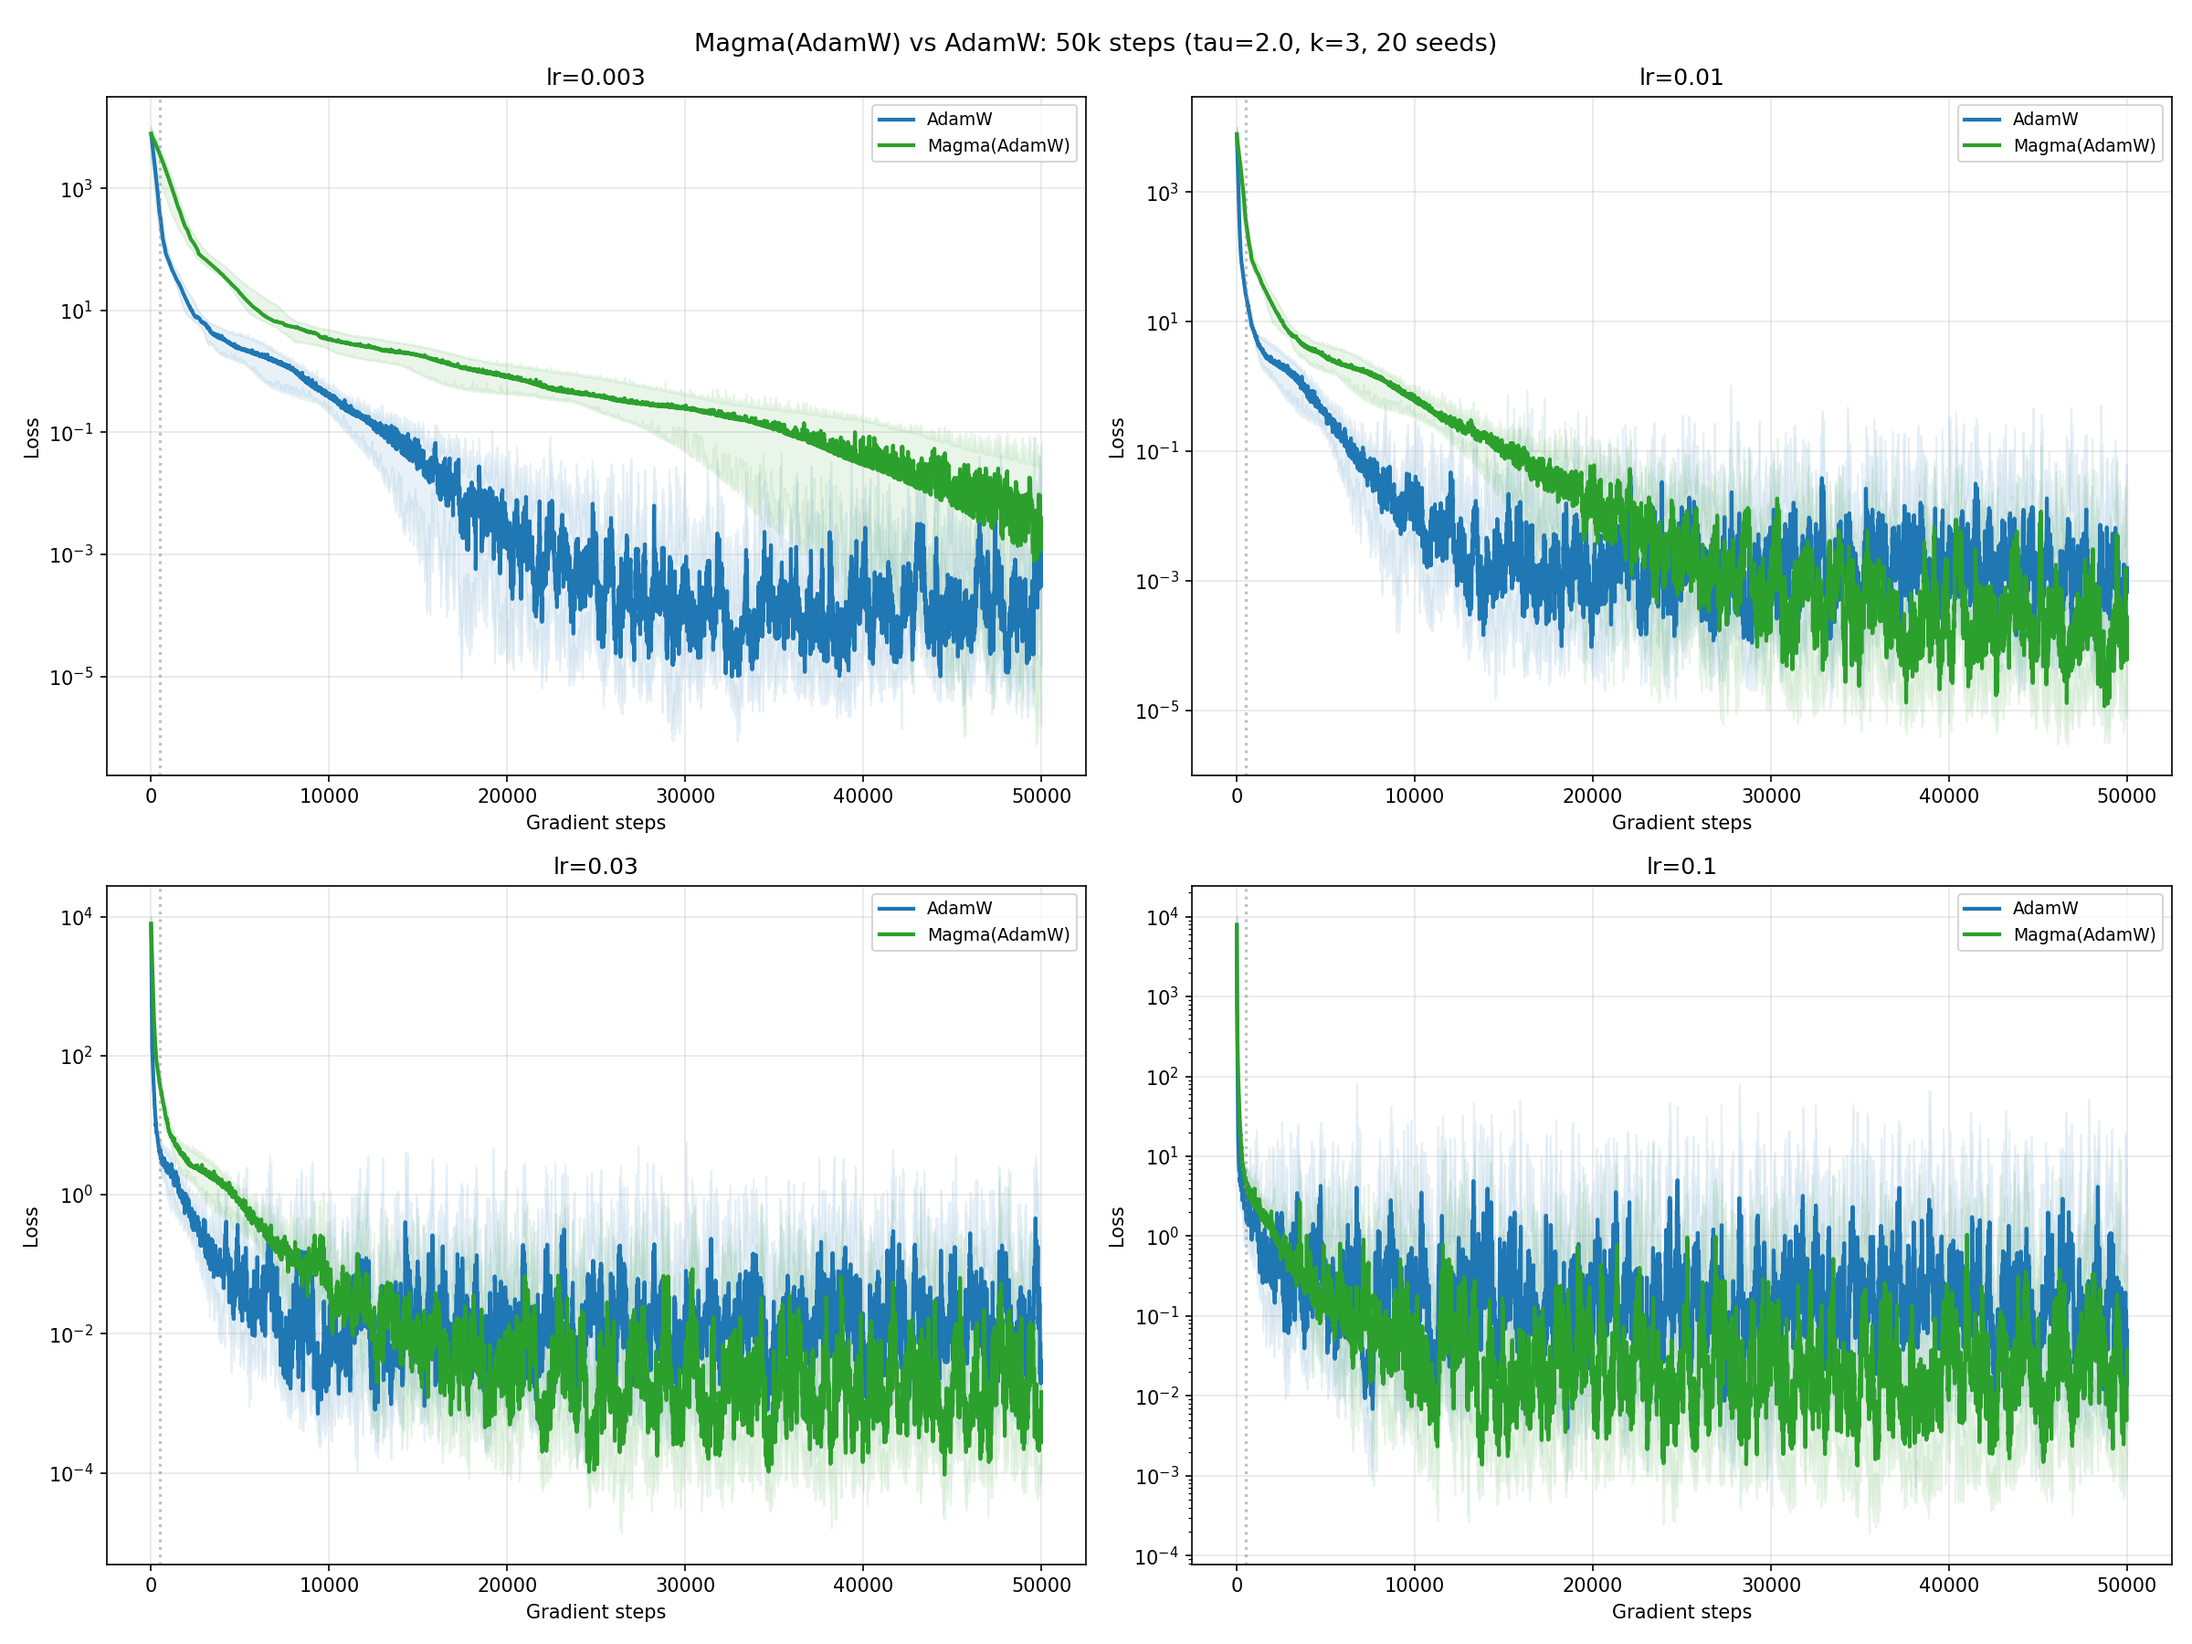
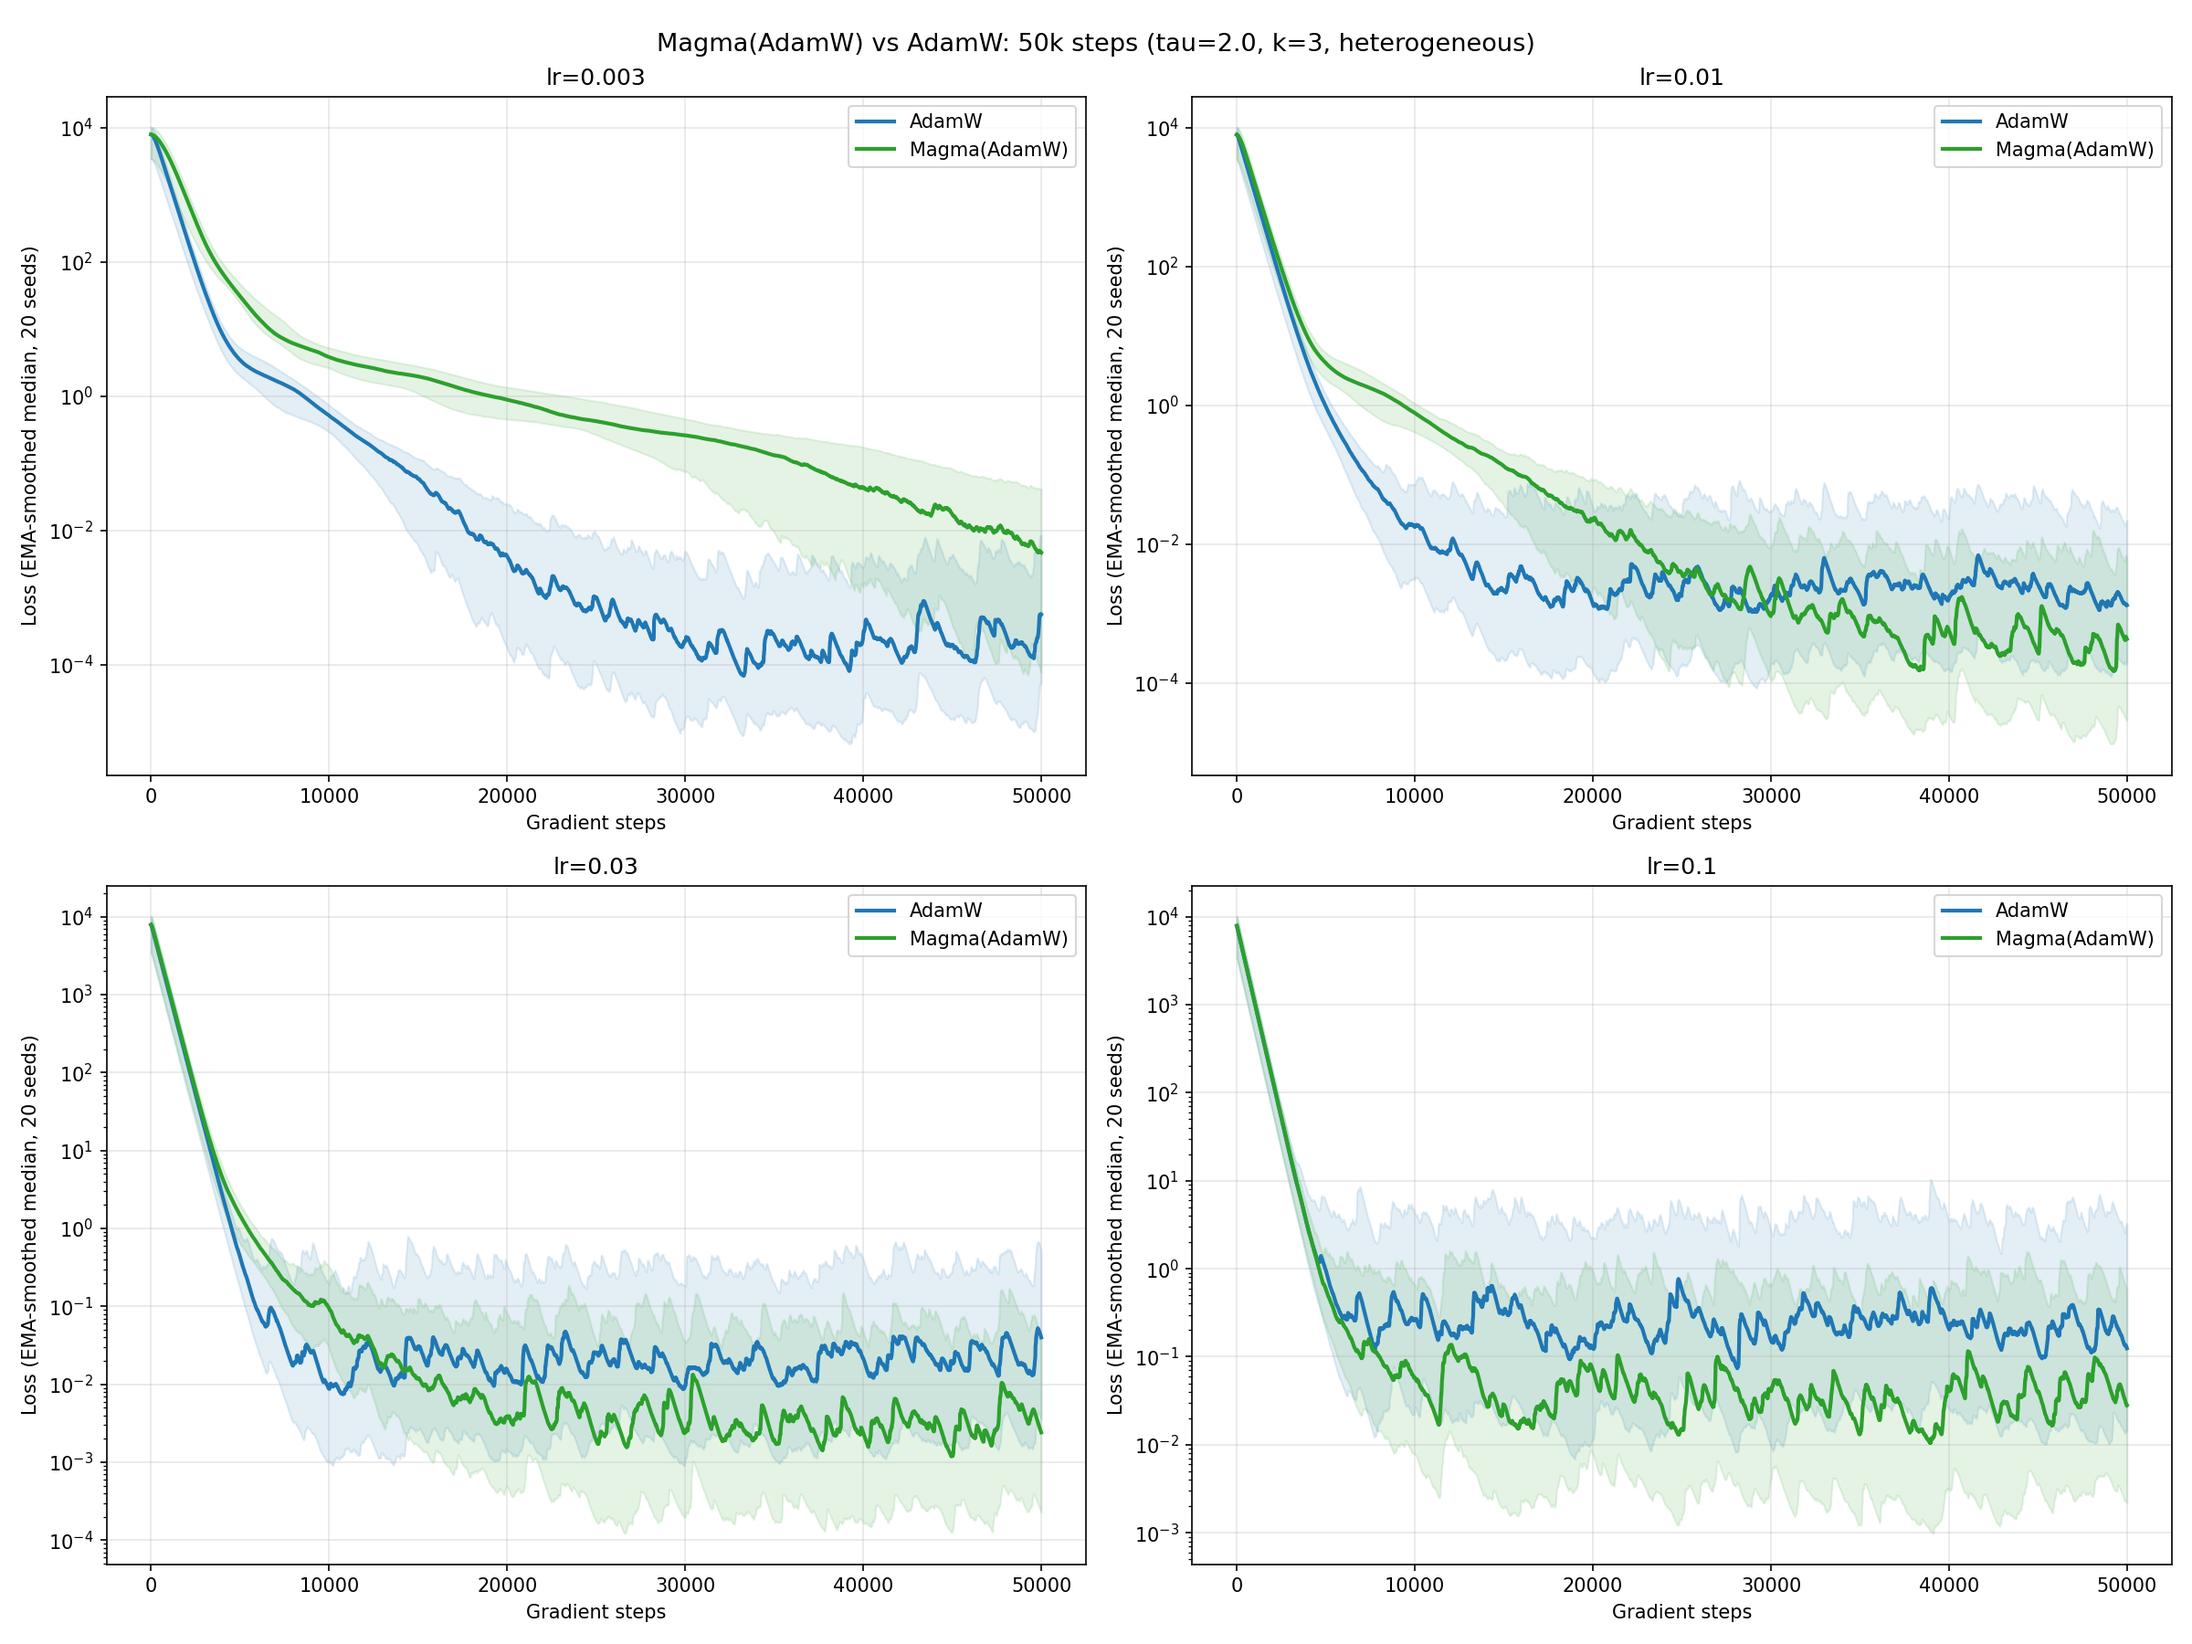
Add EMA temporal smoothing to 50k convergence curves
Apply exponential moving average (alpha=0.02) to loss curves for
cleaner visualization. Raw data unchanged, smoothing is plot-only.

https://claude.ai/code/session_015oS5duf3rwC8kZbSVE6peF

diff --git a/run_magma_50k.py b/run_magma_50k.py
@@ -111,6 +111,17 @@ def main():
     from run_experiments import RESULTS_DIR
     import os
 
+    def ema_smooth(x, alpha=0.02):
+        """Exponential moving average for temporal smoothing."""
+        out = np.empty_like(x)
+        out[0] = x[0]
+        for i in range(1, len(x)):
+            if np.isfinite(x[i]):
+                out[i] = alpha * x[i] + (1 - alpha) * out[i - 1]
+            else:
+                out[i] = out[i - 1]
+        return out
+
     fig, axes = plt.subplots(2, 2, figsize=(16, 12))
     for idx, lr in enumerate(LRS):
         ax = axes[idx // 2][idx % 2]
@@ -124,8 +135,14 @@ def main():
             median = np.nanmedian(losses, axis=0)
             q25 = np.nanpercentile(losses, 25, axis=0)
             q75 = np.nanpercentile(losses, 75, axis=0)
-            ax.semilogy(iters, median, label=name, color=color, linewidth=2, linestyle=ls)
-            ax.fill_between(iters, q25, q75, alpha=0.1, color=color)
+
+            # Apply EMA smoothing for cleaner curves
+            median_s = ema_smooth(median)
+            q25_s = ema_smooth(q25)
+            q75_s = ema_smooth(q75)
+
+            ax.semilogy(iters, median_s, label=name, color=color, linewidth=2, linestyle=ls)
+            ax.fill_between(iters, q25_s, q75_s, alpha=0.1, color=color)
 
         ax.set_title(f"lr={lr}")
         ax.set_xlabel("Gradient steps")
